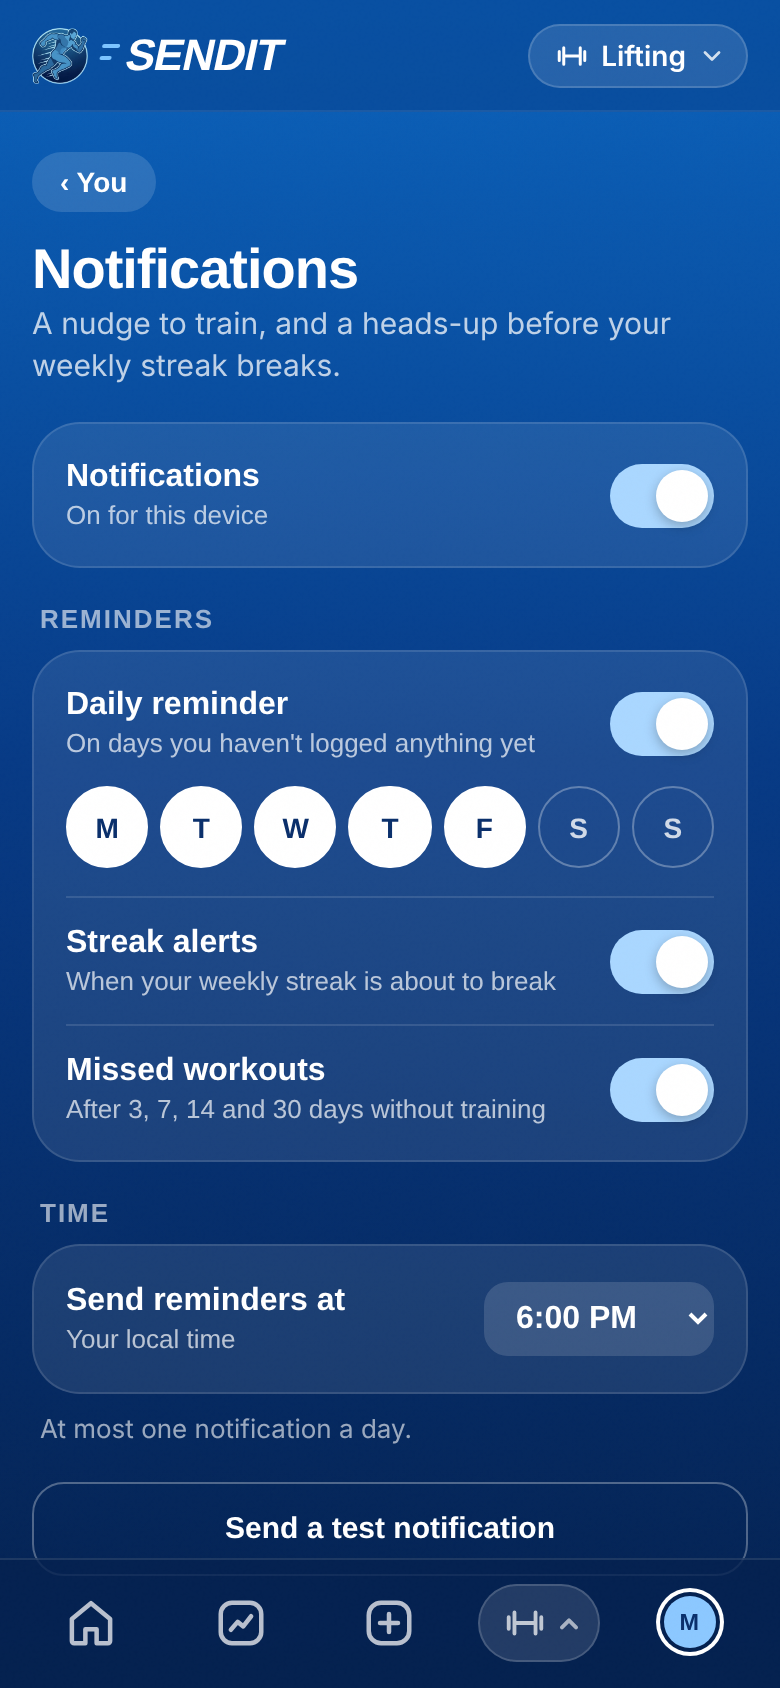
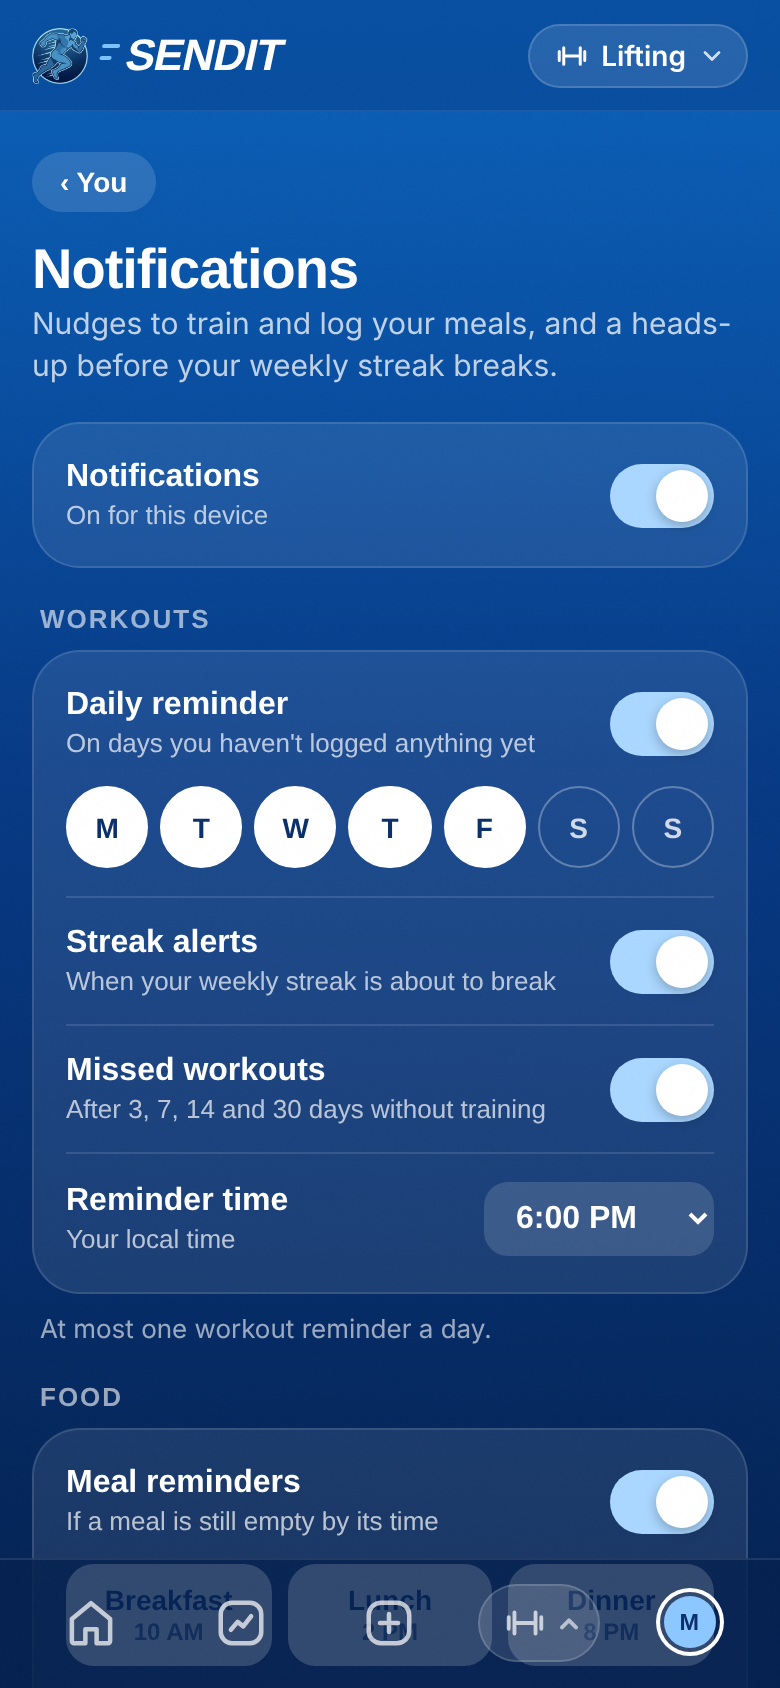
Food reminders: meal check-ins and an evening calorie check (#44)
Adds a Food section to You > Notifications: reminders when breakfast,
lunch or dinner is still empty at 10 AM, 2 PM or 8 PM, and a 9 PM nudge
when the day is well under or over the calorie goal. The calorie goal is
now synced to notify_settings so the server can see it. Food reminders
only go to people who logged food in the last two weeks and have their
own once-a-day-each limit, separate from the workout reminder.

Claude-Session: https://claude.ai/code/session_01Tnfy6QYSu2W37PuXsTdJub

diff --git a/api/notify.js b/api/notify.js
@@ -1,11 +1,12 @@
 /* global process */
 // Sends the day's reminders. Called every hour by .github/workflows/reminders.yml with
 // CRON_SECRET as a Bearer header. Each run picks out the people whose reminder hour it is
-// (in their own time zone), checks what they've logged, and sends at most one reminder a day.
-// Needs CRON_SECRET, SUPABASE_SERVICE_ROLE_KEY or SUPABASE_SECRET_KEY (reads everyone's settings and workout dates),
+// (in their own time zone), checks what they've logged, and sends at most one workout reminder
+// a day, plus food reminders (each meal check and the evening calorie check at most once a day).
+// Needs CRON_SECRET, SUPABASE_SERVICE_ROLE_KEY or SUPABASE_SECRET_KEY (reads everyone's settings, workout dates and food totals),
 // VAPID_PUBLIC_KEY and VAPID_PRIVATE_KEY.
 import { SUPABASE_URL, pushReady, sendPush } from "./_push.js";
-import { isDue, localParts, pickReminder } from "./_reminders.js";
+import { isDue, isFoodDue, localParts, markFoodSent, pickFoodReminders, pickReminder } from "./_reminders.js";
 
 const DAY = 86400000;
 
@@ -42,38 +43,58 @@ export default async function handler(req, res) {
   try {
     const settings = await admin("/rest/v1/notify_settings?select=*");
     out.checked = settings.length;
-    const due = settings.filter(s => isDue(s, now));
+    const due = settings
+      .map(s => ({ s, workout: isDue(s, now), food: isFoodDue(s, now) }))
+      .filter(d => d.workout || d.food);
     out.due = due.length;
     if (!due.length) return res.status(200).json(out);
 
-    const ids = due.map(s => s.user_id).join(",");
+    const ids = due.map(d => d.s.user_id).join(",");
     const subs = await admin(`/rest/v1/push_subscriptions?select=id,user_id,endpoint,p256dh,auth&user_id=in.(${ids})`);
 
-    for (const s of due) {
-      const mine = subs.filter(x => x.user_id === s.user_id);
-      if (!mine.length) continue;
-      const [workouts, climbs] = await Promise.all([
-        times("workouts", "performed_at", s.user_id, new Date(now - 400 * DAY).toISOString()),
-        times("climbs", "created_at", s.user_id, new Date(now - 40 * DAY).toISOString()),
-      ]);
-      const reminder = pickReminder(s, { workouts, other: climbs }, now);
-      if (!reminder) continue;
-
+    // Sends one reminder to all of someone's devices; true if at least one got it.
+    const deliver = async (mine, reminder) => {
       const results = await Promise.all(mine.map(async sub => {
-        const result = await sendPush(sub, { title: reminder.title, body: reminder.body, tag: "reminder" });
+        const result = await sendPush(sub, { title: reminder.title, body: reminder.body, tag: reminder.kind });
         if (result === "gone") {
           await admin(`/rest/v1/push_subscriptions?id=eq.${sub.id}`, { method: "DELETE" }).catch(() => {});
           out.removed++;
         }
         return result;
       }));
-      if (results.includes("sent")) {
-        out.sent++;
-        out.kinds[reminder.kind] = (out.kinds[reminder.kind] || 0) + 1;
-        await admin(`/rest/v1/notify_settings?user_id=eq.${s.user_id}`, {
-          method: "PATCH",
-          body: JSON.stringify({ last_sent: localParts(now, s.tz || "UTC").date }),
-        }).catch(err => console.error(err));
+      if (!results.includes("sent")) return false;
+      out.sent++;
+      out.kinds[reminder.kind] = (out.kinds[reminder.kind] || 0) + 1;
+      return true;
+    };
+
+    for (const { s, workout, food } of due) {
+      const mine = subs.filter(x => x.user_id === s.user_id);
+      if (!mine.length) continue;
+      const patch = {};
+
+      if (workout) {
+        const [workouts, climbs] = await Promise.all([
+          times("workouts", "performed_at", s.user_id, new Date(now - 400 * DAY).toISOString()),
+          times("climbs", "created_at", s.user_id, new Date(now - 40 * DAY).toISOString()),
+        ]);
+        const reminder = pickReminder(s, { workouts, other: climbs }, now);
+        if (reminder && (await deliver(mine, reminder))) patch.last_sent = localParts(now, s.tz || "UTC").date;
+      }
+
+      if (food) {
+        const since = new Date(now - 15 * DAY).toISOString();
+        const logs = await admin(`/rest/v1/food_logs?select=eaten_at,meal,kcal&user_id=eq.${s.user_id}&eaten_at=gte.${since}&limit=1000`).catch(() => null);
+        const sentKeys = [];
+        for (const reminder of pickFoodReminders(s, logs || [], now)) {
+          if (await deliver(mine, reminder)) sentKeys.push(reminder.key);
+        }
+        if (sentKeys.length) patch.food_sent = markFoodSent(s, sentKeys, now);
+      }
+
+      if (Object.keys(patch).length) {
+        await admin(`/rest/v1/notify_settings?user_id=eq.${s.user_id}`, { method: "PATCH", body: JSON.stringify(patch) })
+          .catch(err => console.error(err));
       }
     }
     return res.status(200).json(out);

diff --git a/src/NotifySettings.jsx b/src/NotifySettings.jsx
@@ -3,6 +3,7 @@ import { DEFAULT_SETTINGS, currentSubscription, loadSettings, permission, pushSu
 import { track } from "./tracking";
 
 const WEEK = [[1, "M", "Monday"], [2, "T", "Tuesday"], [3, "W", "Wednesday"], [4, "T", "Thursday"], [5, "F", "Friday"], [6, "S", "Saturday"], [0, "S", "Sunday"]];
+const FOOD_MEALS = [["breakfast", "Breakfast", "10 AM"], ["lunch", "Lunch", "2 PM"], ["dinner", "Dinner", "8 PM"]];
 const HOURS = Array.from({ length: 18 }, (_, i) => i + 5);
 const hourLabel = h => `${h % 12 || 12}:00 ${h < 12 ? "AM" : "PM"}`;
 
@@ -78,11 +79,13 @@ export default function NotifySettings({ user, onInstallHelp }) {
     change({ days, daily: days.length > 0 && settings.daily });
   };
 
+  const toggleMeal = m => change({ food_meals: settings.food_meals.includes(m) ? settings.food_meals.filter(x => x !== m) : [...settings.food_meals, m] });
+
   return (
     <div className="you notify">
       <div>
         <h1 className="notify-title">Notifications</h1>
-        <p className="notify-lead">A nudge to train, and a heads-up before your weekly streak breaks.</p>
+        <p className="notify-lead">Nudges to train and log your meals, and a heads-up before your weekly streak breaks.</p>
       </div>
 
       {support === "install" && (
@@ -118,7 +121,7 @@ export default function NotifySettings({ user, onInstallHelp }) {
           {on && (
             <>
               <div className="notify-group">
-                <h2>Reminders</h2>
+                <h2>Workouts</h2>
                 <div className="you-list">
                   <div className="notify-row">
                     <span>Daily reminder<small>On days you haven't logged anything yet</small></span>
@@ -139,20 +142,41 @@ export default function NotifySettings({ user, onInstallHelp }) {
                     <span>Missed workouts<small>After 3, 7, 14 and 30 days without training</small></span>
                     <Switch on={settings.comeback} label="Missed workouts" onChange={v => change({ comeback: v })} />
                   </div>
-                </div>
-              </div>
-
-              <div className="notify-group">
-                <h2>Time</h2>
-                <div className="you-list">
                   <label className="notify-row">
-                    <span>Send reminders at<small>Your local time</small></span>
+                    <span>Reminder time<small>Your local time</small></span>
                     <select className="notify-time" value={settings.hour} onChange={e => change({ hour: Number(e.target.value) })}>
                       {HOURS.map(h => <option key={h} value={h}>{hourLabel(h)}</option>)}
                     </select>
                   </label>
                 </div>
-                <p className="notify-note">At most one notification a day.</p>
+                <p className="notify-note">At most one workout reminder a day.</p>
+              </div>
+
+              <div className="notify-group">
+                <h2>Food</h2>
+                <div className="you-list">
+                  <div className="notify-row">
+                    <span>Meal reminders<small>If a meal is still empty by its time</small></span>
+                    <Switch on={settings.food_meals.length > 0} label="Meal reminders" onChange={v => change({ food_meals: v ? DEFAULT_SETTINGS.food_meals : [] })} />
+                  </div>
+                  {settings.food_meals.length > 0 && (
+                    <div className="notify-meals" role="group" aria-label="Meals to remind about">
+                      {FOOD_MEALS.map(([m, name, time]) => {
+                        const on = settings.food_meals.includes(m);
+                        return (
+                          <button key={m} type="button" aria-pressed={on} className={on ? "on" : ""} onClick={() => toggleMeal(m)}>
+                            {name}<small>{time}</small>
+                          </button>
+                        );
+                      })}
+                    </div>
+                  )}
+                  <div className="notify-row">
+                    <span>Evening calorie check<small>At 9 PM, if you're far off your goal</small></span>
+                    <Switch on={settings.food_eod} label="Evening calorie check" onChange={v => change({ food_eod: v })} />
+                  </div>
+                </div>
+                <p className="notify-note">Only sent if you've logged food in the last two weeks. These don't count toward the workout limit.</p>
               </div>
 
               <button className="you-signout" disabled={busy} onClick={test}>Send a test notification</button>

diff --git a/api/_reminders.js b/api/_reminders.js
@@ -1,4 +1,4 @@
-// Which reminder (if any) someone should get right now. Shared by /api/notify and its tests.
+// Which workout reminder (if any) someone should get right now, and which food reminders. Shared by /api/notify and its tests.
 // Files starting with "_" in api/ are helpers, not endpoints.
 //
 // Everything happens in the person's own time zone. At most one reminder a day, sent in the
@@ -122,4 +122,79 @@ export function pickReminder(settings, { workouts = [], other = [] }, now = new 
   }
 
   return null;
+}
+
+/* ---------- food ---------- */
+// Food reminders have their own limit, separate from the workout reminder: each meal
+// reminder and the evening check go out at most once a day.
+
+// When each meal reminder goes out (local hour), if that meal still has nothing logged.
+export const MEAL_CHECKS = { breakfast: 10, lunch: 14, dinner: 20 };
+const MEAL_WORDS = { breakfast: "breakfast", lunch: "lunch", dinner: "dinner" };
+export const EVENING_CHECK = 21;
+const FOOD_WINDOW_HOURS = 2;
+
+const inWindow = (hour, start) => hour >= start && hour < start + FOOD_WINDOW_HOURS;
+const sentToday = (settings, date) => (settings.food_sent?.date === date ? settings.food_sent.sent || [] : []);
+
+// Could any food reminder be due this hour? Cheap check before loading the food log.
+export function isFoodDue(settings, now = new Date()) {
+  const p = localParts(now, settings.tz || "UTC");
+  const meals = (settings.food_meals || []).filter(m => MEAL_CHECKS[m] !== undefined && inWindow(p.hour, MEAL_CHECKS[m]));
+  return meals.length > 0 || (settings.food_eod !== false && inWindow(p.hour, EVENING_CHECK));
+}
+
+// logs: { eaten_at, meal, kcal } for roughly the last two weeks. Returns the reminders due
+// now that haven't gone out today, each with a `key` to record once sent.
+// Only people who logged food in the last 14 days get any, so lifters who never track food aren't nagged.
+export function pickFoodReminders(settings, logs, now = new Date()) {
+  const tz = settings.tz || "UTC";
+  const today = localParts(now, tz);
+  const recent = logs.filter(l => today.day - localParts(l.eaten_at, tz).day <= 14);
+  if (!recent.length) return [];
+  const todays = recent.filter(l => localParts(l.eaten_at, tz).day === today.day);
+  const done = sentToday(settings, today.date);
+  const out = [];
+
+  // Only the most recent meal window applies, so a late run doesn't send breakfast and lunch together.
+  const meal = (settings.food_meals || [])
+    .filter(m => MEAL_CHECKS[m] !== undefined && inWindow(today.hour, MEAL_CHECKS[m]))
+    .sort((a, b) => MEAL_CHECKS[b] - MEAL_CHECKS[a])[0];
+  if (meal && !done.includes(meal) && !todays.some(l => l.meal === meal)) {
+    out.push({
+      kind: "meal", key: meal,
+      title: `No ${MEAL_WORDS[meal]} logged yet`,
+      body: pick([
+        `Had ${MEAL_WORDS[meal]}? Log it now while you still remember.`,
+        `Add your ${MEAL_WORDS[meal]} in a few taps to keep today's numbers right.`,
+      ], today.day),
+    });
+  }
+
+  // One food notification per run: if a meal reminder is going out, the evening check waits an hour.
+  if (!out.length && settings.food_eod !== false && inWindow(today.hour, EVENING_CHECK) && !done.includes("evening") && todays.length) {
+    const goal = Number(settings.kcal_goal) || 2000;
+    const eaten = Math.round(todays.reduce((a, l) => a + (Number(l.kcal) || 0), 0));
+    const gap = goal - eaten;
+    if (gap >= goal * 0.25) {
+      out.push({
+        kind: "food_under", key: "evening",
+        title: `${gap.toLocaleString("en-US")} cals under today`,
+        body: `You're at ${eaten.toLocaleString("en-US")} of ${goal.toLocaleString("en-US")}. Missed logging something, or still time for a meal?`,
+      });
+    } else if (-gap >= goal * 0.15) {
+      out.push({
+        kind: "food_over", key: "evening",
+        title: `${(-gap).toLocaleString("en-US")} cals over today`,
+        body: `You're at ${eaten.toLocaleString("en-US")} of ${goal.toLocaleString("en-US")}. One day won't undo your progress. Back on plan tomorrow.`,
+      });
+    }
+  }
+  return out;
+}
+
+// The new food_sent value after sending reminders with these keys.
+export function markFoodSent(settings, keys, now = new Date()) {
+  const date = localParts(now, settings.tz || "UTC").date;
+  return { date, sent: [...new Set([...sentToday(settings, date), ...keys])] };
 }

diff --git a/src/notify.js b/src/notify.js
@@ -2,8 +2,9 @@
 // The reminders themselves are sent by /api/notify (see supabase/notifications.sql).
 import { supabase } from "./supabase";
 import { isInstalled } from "./install";
+import { readGoals } from "./food";
 
-export const DEFAULT_SETTINGS = { daily: true, days: [0, 1, 2, 3, 4, 5, 6], hour: 18, streak: true, comeback: true };
+export const DEFAULT_SETTINGS = { daily: true, days: [0, 1, 2, 3, 4, 5, 6], hour: 18, streak: true, comeback: true, food_meals: ["breakfast", "lunch", "dinner"], food_eod: true };
 
 const timeZone = () => { try { return Intl.DateTimeFormat().resolvedOptions().timeZone || "UTC"; } catch { return "UTC"; } };
 const isIOS = () => /iPad|iPhone|iPod/.test(navigator.userAgent) || (navigator.platform === "MacIntel" && navigator.maxTouchPoints > 1);
@@ -53,7 +54,8 @@ export async function saveSettings(userId, settings) {
   const row = {
     user_id: userId,
     daily: settings.daily, days: settings.days, hour: settings.hour, streak: settings.streak, comeback: settings.comeback,
-    week_goal: weeklyGoal(), tz: timeZone(), updated_at: new Date().toISOString(),
+    food_meals: settings.food_meals, food_eod: settings.food_eod,
+    week_goal: weeklyGoal(), kcal_goal: readGoals().kcal, tz: timeZone(), updated_at: new Date().toISOString(),
   };
   const { error } = await supabase.from("notify_settings").upsert(row);
   if (error) throw new Error(setupError(error));
@@ -105,8 +107,9 @@ export async function sendTest() {
   if (!r.ok) throw new Error(body.error || "Couldn't send a test right now.");
 }
 
-// Keeps the server's copy of the weekly goal (Lifting Home) and time zone in step, so streak
-// alerts match what the app shows and reminders arrive at the right local time.
+// Keeps the server's copy of the weekly goal (Lifting Home), calorie goal (Food Home) and time
+// zone in step, so streak and calorie alerts match what the app shows and reminders arrive at
+// the right local time.
 export function syncReminderInfo(userId, goal = weeklyGoal()) {
-  supabase.from("notify_settings").update({ week_goal: goal, tz: timeZone() }).eq("user_id", userId).then(() => {}, () => {});
+  supabase.from("notify_settings").update({ week_goal: goal, kcal_goal: readGoals().kcal, tz: timeZone() }).eq("user_id", userId).then(() => {}, () => {});
 }

diff --git a/src/Dashboard.jsx b/src/Dashboard.jsx
@@ -179,7 +179,7 @@ export default function Dashboard({ user }) {
             </div>
             <div className="you-list">
               {owner && <button onClick={() => go("stats")}><span>App stats<small>Users, activity and visitors</small></span>{I.chevron()}</button>}
-              <button onClick={() => go("notify")}><span>Notifications<small>Workout reminders and streak alerts</small></span>{I.chevron()}</button>
+              <button onClick={() => go("notify")}><span>Notifications<small>Workout, meal and streak reminders</small></span>{I.chevron()}</button>
               <button onClick={() => setPicking(true)}><span>Sport<small>{SPORT_NAMES[sport]}</small></span>{I.chevron()}</button>
               <button onClick={() => go("coach")}><span>AI coach<small>Ask questions about your training</small></span>{I.chevron()}</button>
               <button onClick={() => go("news")}><span>News<small>Climbing headlines</small></span>{I.chevron()}</button>

diff --git a/src/FoodHome.jsx b/src/FoodHome.jsx
@@ -2,6 +2,7 @@ import { useEffect, useState } from "react";
 import { supabase } from "./supabase";
 import { AmountSheet, GoalsSheet } from "./FoodSheets";
 import { Gauge } from "./FoodCharts";
+import { syncReminderInfo } from "./notify";
 import { DAY_MS, MEALS, MEAL_SPLIT, amountText, dayKey, foodFromLog, foodsError, logRow, logStreak, readGoals, saveGoals, startOfDay, totals } from "./food";
 
 const Chevron = ({ left }) => (
@@ -201,7 +202,7 @@ export default function FoodHome({ user, day, onDay, onAdd }) {
         <GoalsSheet
           goals={goals}
           onCancel={() => setGoalsOpen(false)}
-          onSave={g => { setGoals(g); saveGoals(g); setGoalsOpen(false); }}
+          onSave={g => { setGoals(g); saveGoals(g); syncReminderInfo(user.id); setGoalsOpen(false); }}
         />
       )}
     </div>

diff --git a/src/Nav.css b/src/Nav.css
@@ -150,3 +150,7 @@
 .notify-msg { margin: 0; font-size: 14px; text-align: center; color: #ffb4a8; }
 .notify-msg.ok { color: #aad7ff; }
 .you-signout:disabled { opacity: 0.5; cursor: default; }
+.you-list > .notify-meals { display: flex; gap: 8px; border-top: 0; padding: 0 0 14px; cursor: default; }
+.notify-meals button { flex: 1; display: flex; flex-direction: column; align-items: center; gap: 1px; padding: 9px 4px; border-radius: 14px; border: 1px solid rgba(255, 255, 255, 0.3); background: transparent; color: rgba(255, 255, 255, 0.85); font: 700 14px 'Figtree', sans-serif; cursor: pointer; }
+.notify-meals button small { margin: 0; font-size: 12px; font-weight: 600; color: inherit; opacity: 0.75; }
+.notify-meals button.on { background: #fff; border-color: #fff; color: #0a2f6b; }
